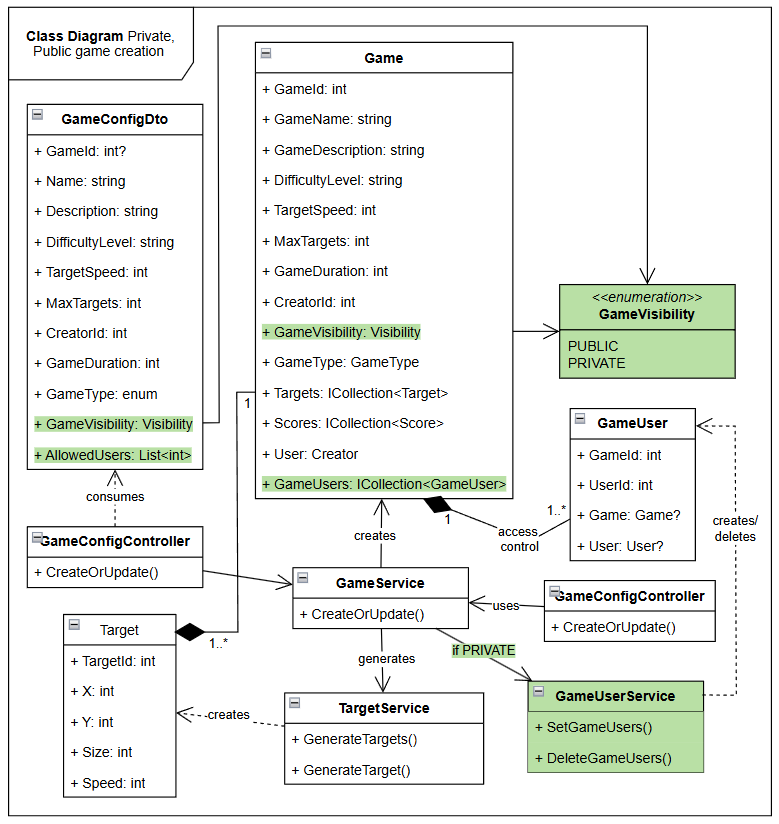
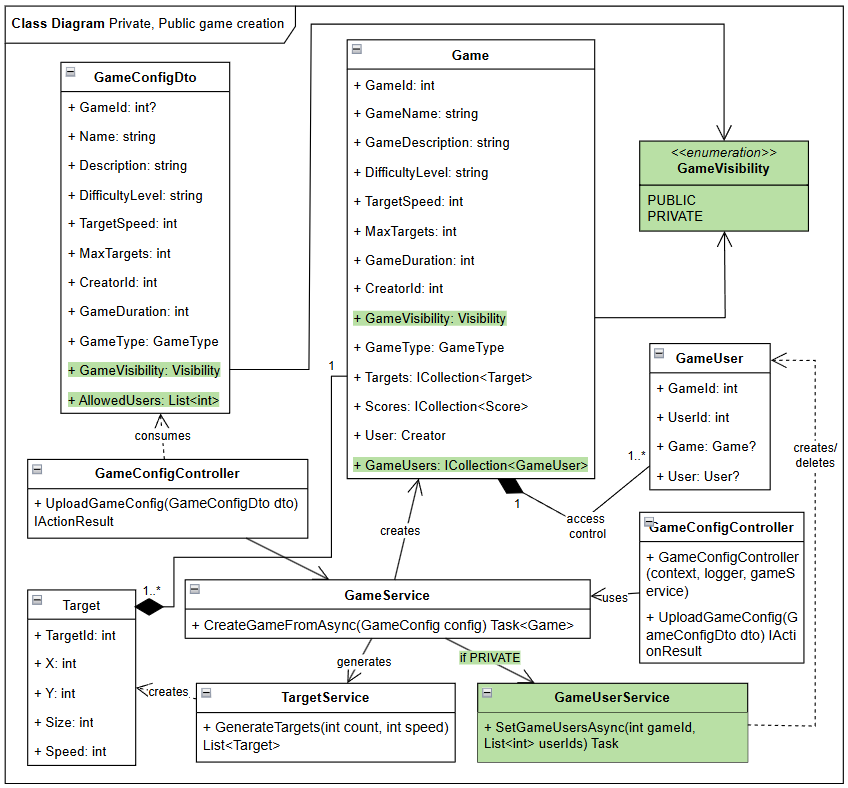
Changes and additions to priv and pub UMLs

Changed region(s): [[0.0, 0.0, 1.0, 1.0]]

diff --git a/Documentation/LatexLab2/Template.tex b/Documentation/LatexLab2/Template.tex
@@ -128,21 +128,41 @@ UML diagrams are used to model the system's architecture and structure. We follo
 \end{figure}
 \textbf{AppDbContext}: Acts as the bridge between C\# code and the database, managing all entity collections and relationships.
 
-\subsubsection{Creating Private and Public Games}
+\subsubsection{Creating Private and Public games class diagram}
 \begin{figure}[H]
     \centering
     \includegraphics[width=0.8\textwidth]{images/GameCreationClassImg.png}
-    \caption{Creating Private and Public Games Class Diagram (Logical View)}
+    \caption{Creating Private and Public games class diagram (Logical View)}
     \label{fig:gamecreation}
+    Green color distinquishes more important parts specifically in PRIVATE/PUBLIC game creation.
 \end{figure}
 \begin{itemize}
     \item \textbf{GameConfigDto}: Carries user input.
-    \item \textbf{GameConfigController}: Receives user input, validates it, and calls \textbf{GameService}.
-    \item \textbf{GameService}: Orchestrates creation, delegates to TargetService/GameUserService.
+    \item \textbf{GameConfigController}: Receives user input, validates it and calls \textbf{GameService}.
+    \item \textbf{GameService}: Orchestrates creation, delegates to \textbf{TargetService}/\textbf{GameUserService}.
     \item \textbf{GameUserService}: Manages private game access (only called when Visibility=PRIVATE).
     \item \textbf{Game}: Root entity storing all game data.
     \item \textbf{GameVisibility}: Enum controlling access logic (PUBLIC/PRIVATE).
 \end{itemize}
+
+\subsubsection{Creating Public games sequence diagram}
+\begin{figure}[H]
+    \centering
+    \includegraphics[width=0.8\textwidth]{images/seqPublic.png}
+    \caption{Creating Public games sequence diagram (Logical View)}
+    \label{fig:gamecreation}
+\end{figure}
+Public game creation involves a client submitting a \textbf{GameConfigDto} to the \textbf{GameConfigController}, which converts it to a \textbf{GameConfig} and calls \textbf{GameService.CreateGameFromAsync()}. The service generates targets via \textbf{TargetService}, saves the game and targets via \textbf{AppDbContext}, and returns the created game. 
+
+\subsubsection{Creating Private games sequence diagram}
+Green color shows what is different from Public game creating sequence diagram.
+\begin{figure}[H]
+    \centering
+    \includegraphics[width=0.8\textwidth]{images/seqPrivate.png}
+    \caption{Creating Private game sequence diagram (Logical View)}
+    \label{fig:gamecreation}
+\end{figure}
+Private games follow the same initial flow but add extra steps: after saving the game, \textbf{GameService} calls \textbf{GameUserService.SetGameUsersAsync()} to delete existing and insert new \textbf{GameUser} records, enforcing access control. Both flows return the \textbf{Game} entity, but private games require two database transactions (game + targets and user permissions) versus public games' single transaction.
 
 \begin{figure}[H]
     \centering
